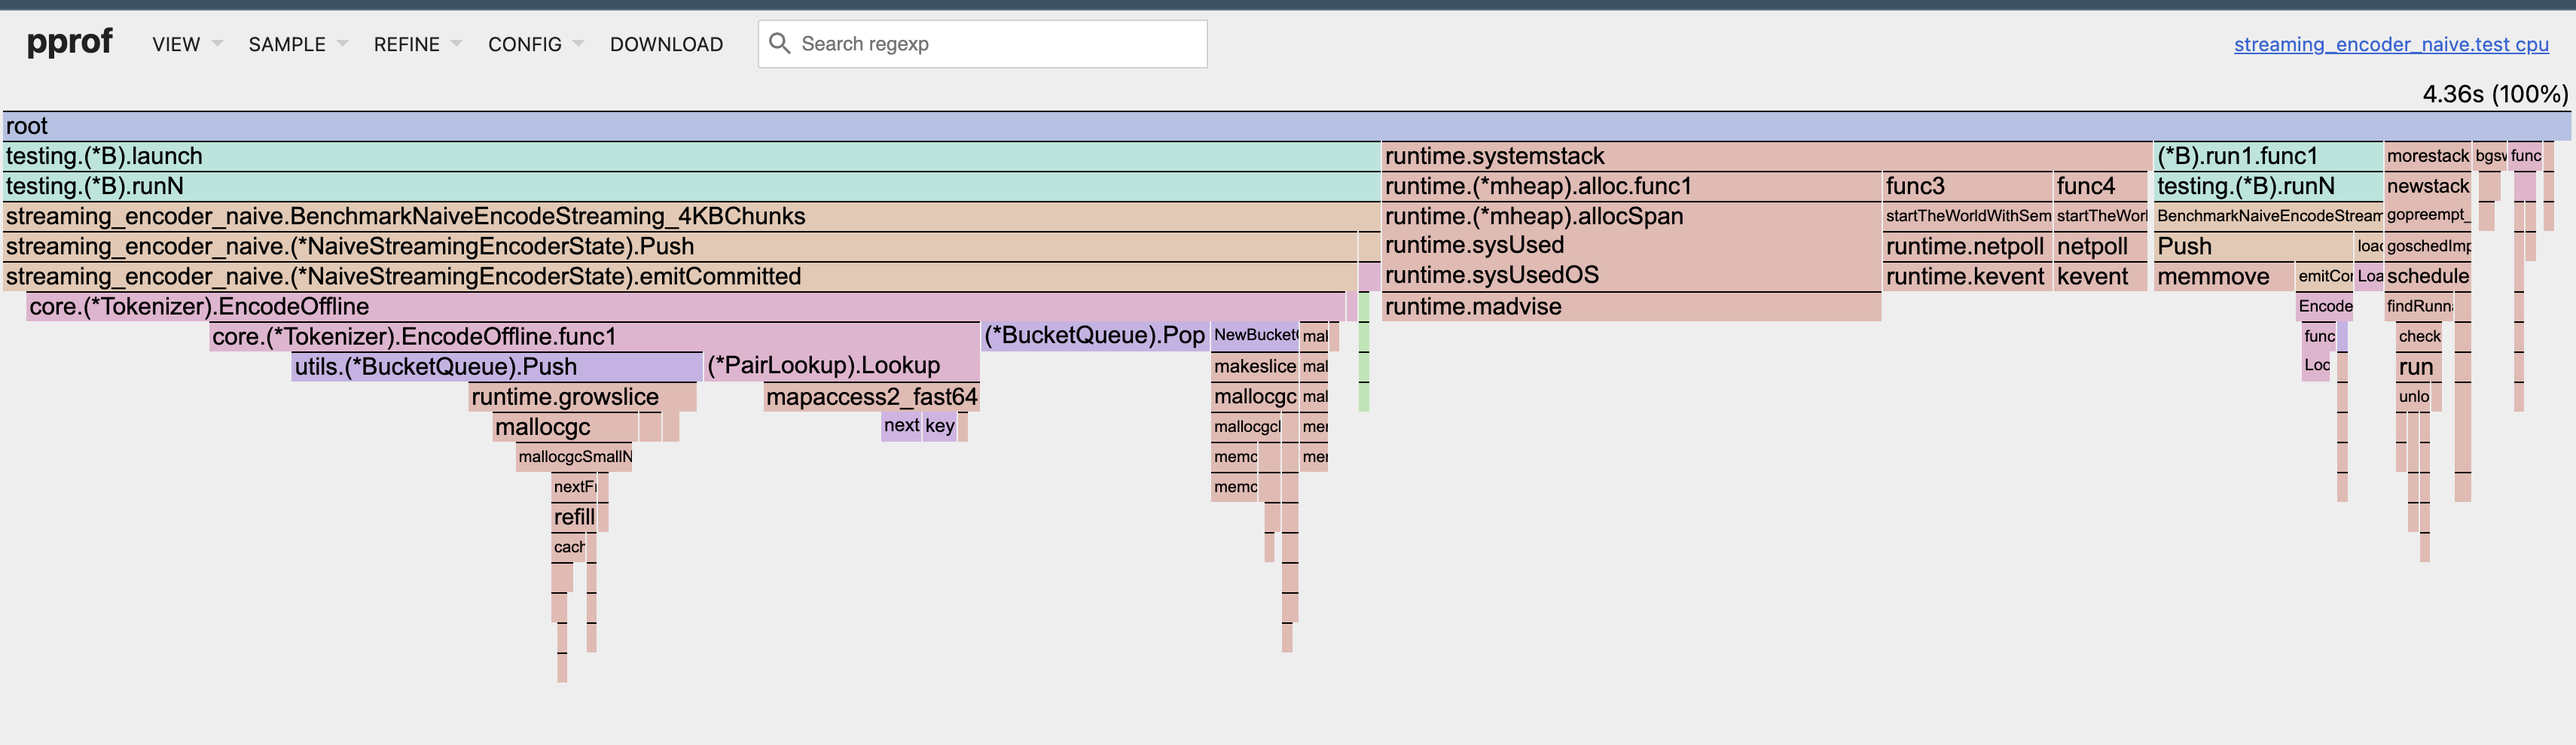
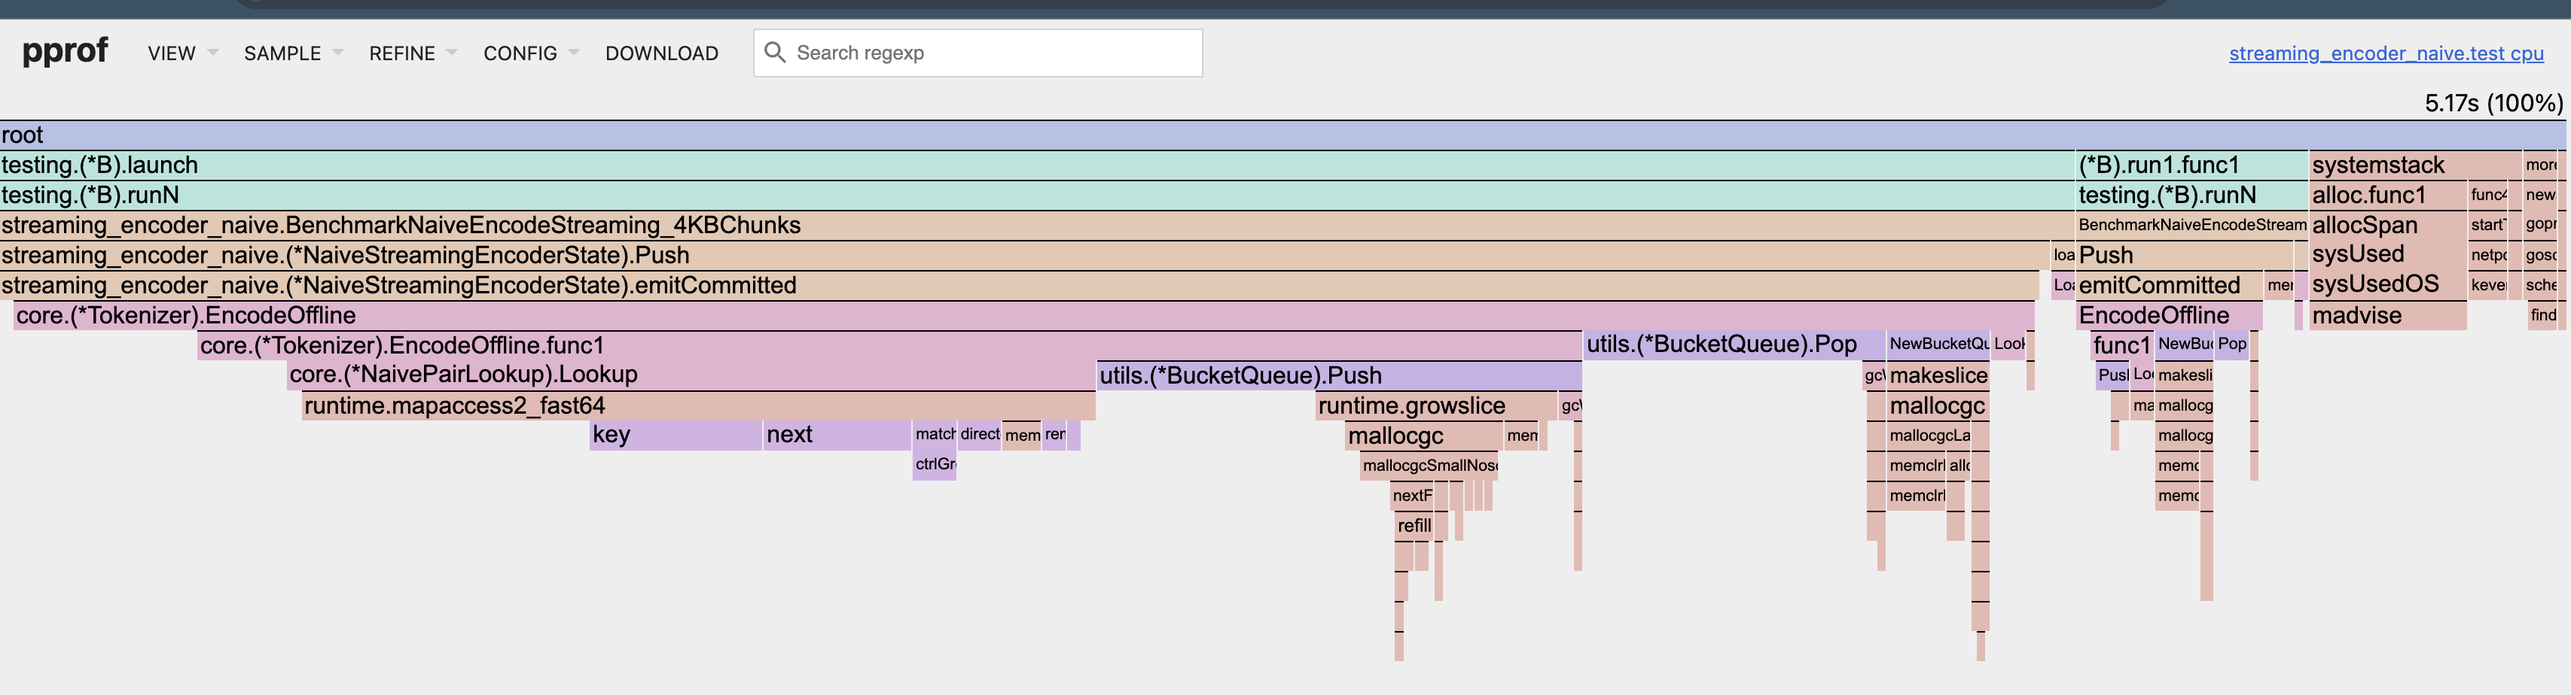
baseline

diff --git a/_posts/2025-12-01-bpe-tokenizer.md b/_posts/2025-12-01-bpe-tokenizer.md
@@ -14,10 +14,52 @@ There are easier ways to spend your weekends. Building a GPT-2 tokenizer from sc
 This post is the story of how that happened: what I built, what broke, what I optimized, and what I learned about systems engineering by reconstructing one of the most universally used components in modern LLMs: the tokenizer.
 
 ## The BPE Tokenizer
-TODO: add background, and what we are working with (the dataset specifically)
+A tokenizer is the first step in almost every modern language model pipeline. Its job is simple in spirit but critical in practice: convert raw text into a sequence of integer IDs that a model can process. For example:
 
-## Why Build a Tokenizer at All?
-If one's interested in **LLM infrastructure**, tokenizers are not optional. They sit at the front of _every_ inference and training pipeline and dictate throughput, correctness, and latency.
+```
+"Hello world!"
+→ [15496, 995, 0]
+```
+
+These integers correspond to entries in a fixed vocabulary learned during model training.
+
+Every request to a large language model whether for inference or training, goes through a tokenizer first. That makes tokenization part of the critical path for latency-sensitive systems like:
+- inference servers
+- chat applications
+- streaming generation APIs
+- real-time classification systems
+
+If tokenization is slow, everything downstream is slow.
+
+Most modern LLMs (GPT-2, GPT-3, GPT-4 class models) use Byte Pair Encoding (BPE) or close variants.
+
+At a high level, BPE works like this:
+1. Start with raw text as bytes (values 0–255)
+2. Repeatedly merge the most frequent adjacent byte/token pairs
+3. Each merge produces a new token
+4. Continue until no more applicable merges exist
+
+The result is a vocabulary of:
+- single bytes
+- short character sequences
+- common substrings (e.g. "ing", "tion", "http")
+
+BPE is attractive because it:
+- handles arbitrary UTF-8 text
+- balances vocabulary size vs. expressiveness
+- compresses common patterns efficiently
+
+But it has a downside: tokenization is not just a lookup, it’s an algorithm. At runtime, a BPE tokenizer must repeatedly:
+1. scan adjacent token pairs
+2. check whether (a, b) is mergeable
+3. compare merge ranks
+4. apply the best merge
+5. update neighboring pairs and all of this usually involves thousands of pair lookups per chunk of text.
+
+
+
+## Why Rebuild a Tokenizer at all?
+If one's interested in **LLM infrastructure**, tokenizers are not optional. Most production tokenizers are treated as black boxes but that abstraction leaks quickly once we start caring about end-to-end latency, memory patterns, and streaming inputs.
 
 I wanted to understand what was actually happening inside. So I rebuilt it - byte-pair encoding, vocab parsing, merges, greedy selection, token mapping, streaming semantics, all of it.
 
@@ -40,6 +82,8 @@ I wanted:
 - Benchmarks.
 
 I quickly learned: this is way harder than it sounds.
+
+TODO: add invariants
 
 ## The Underestimate: BPE is simple, right?
 
@@ -118,17 +162,16 @@ The naive streaming encoder is simple:
 - run offline BPE on each chunk
 - concatenate results
 
-
 No cross-boundary merging but extremely practical.
 
 And most importantly, much easier to optimize.
 
-
 ### Profiling the Naive Streaming Encoder: Where the Time Actually Goes
 
-| Benchmark                      | Iterations |       ns/op |  MB/s |          B/op | allocs/op |
-| ------------------------------ | ---------: | ----------: | ----: | ------------: | --------: |
-| NaiveEncodeStreaming_4KBChunks |         10 | 462,254,429 | 11.34 | 1,830,937,034 | 2,343,413 |
+| Benchmark                              | Iterations | Time (ns/op) | Throughput (MB/s) | Bytes/op        | Allocs/op |
+|---------------------------------------|------------|--------------|-------------------|-----------------|-----------|
+| BenchmarkNaiveEncodeStreaming_4KBChunks | 10         | 540,239,550  | 9.70              | 1,830,942,153   | 2,343,402 |
+
 
 Here’s the CPU flamegraph from the baseline naive streaming encoder (4 KB chunks, single-core).
 
